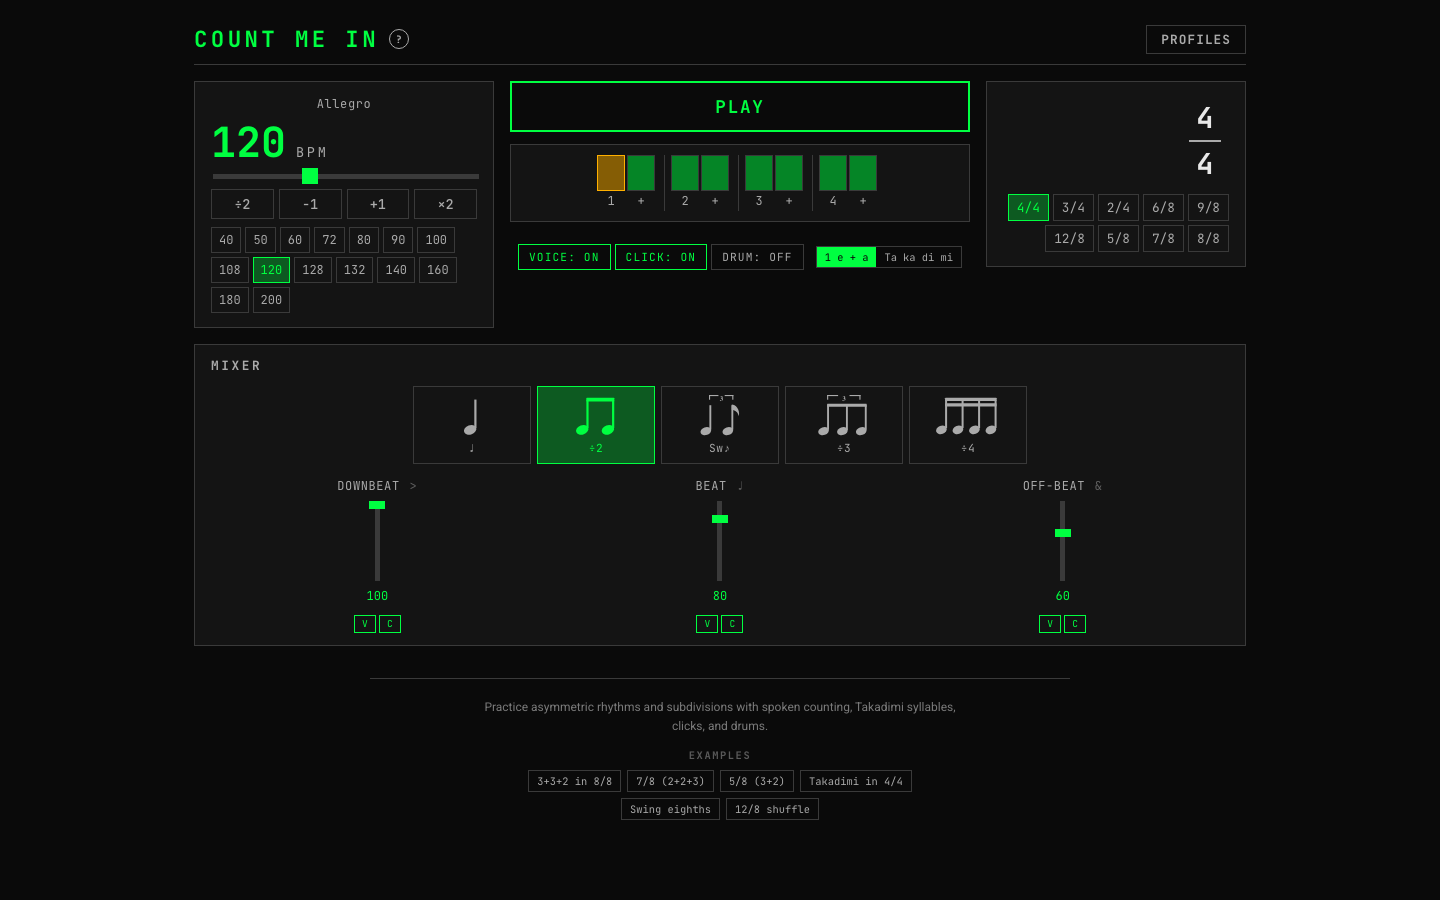
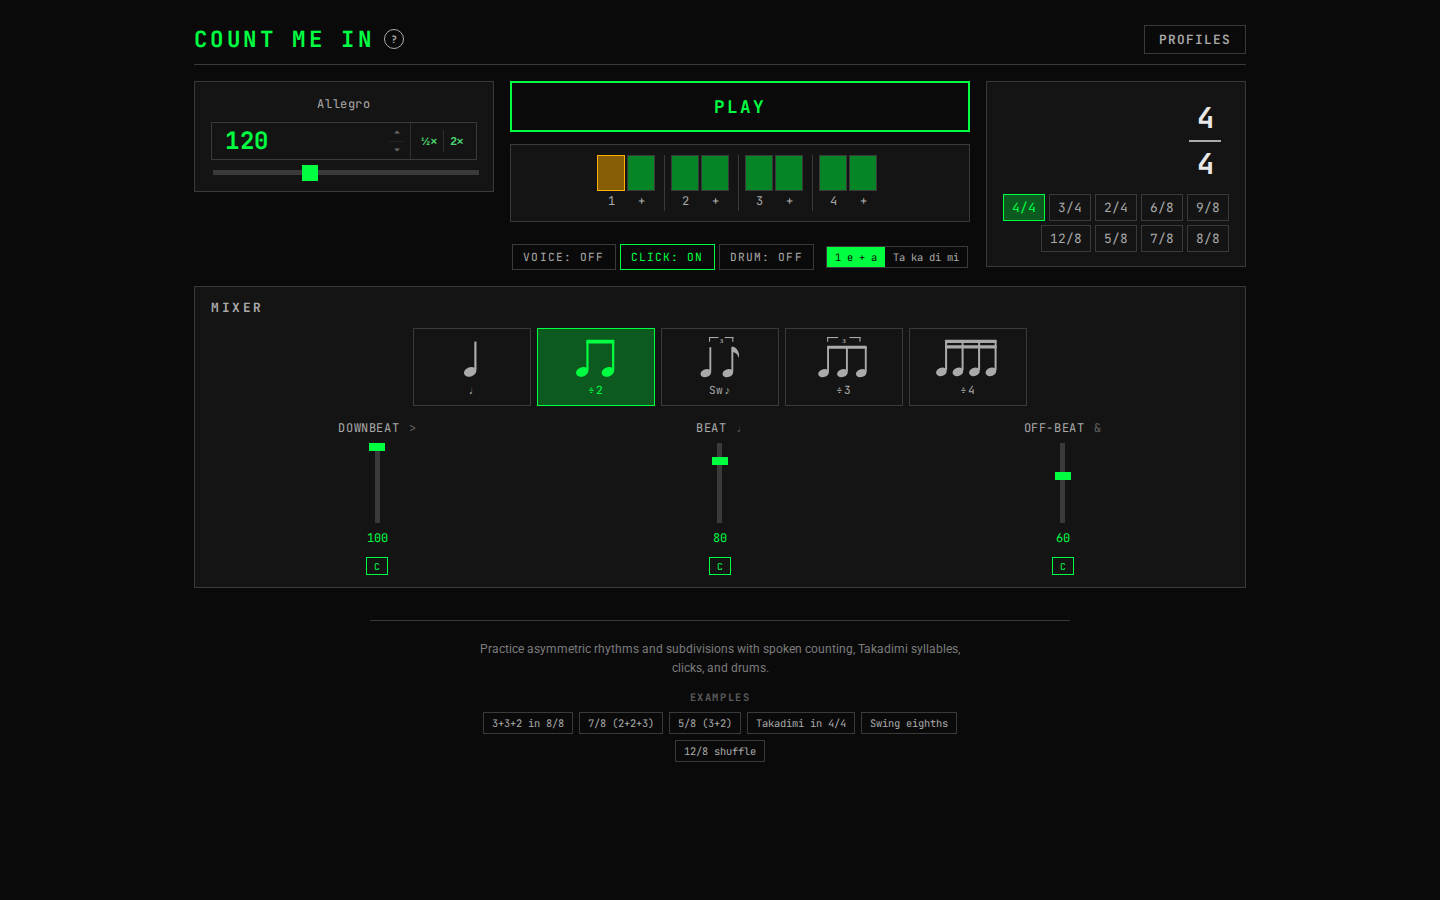
Count: adopt shared BpmInput for tempo control (#51)
* Count: adopt shared BpmInput for tempo control

Replaces the bespoke BPM display/edit field, repeat-press steppers, rate
buttons, and preset chip row with the shared BpmInput (pulse-themed via
its CSS tokens). Keeps the tempo-marking caption and always-visible
slider — core to Count's live tempo-sweep journey. Mixer tick toggles
get the 24px coarse-pointer floor.

* Update Count visual baselines for shared BpmInput adoption

count-desktop.png / count-mobile.png: intentional change from PR 51 — the
bespoke BPM display/± buttons are replaced by the shared BpmInput stepper
themed to the pulse terminal aesthetic (square shell, green accent, ½×/2×
presets). Imported from Linux CI actuals (run 29695910055); reviewed —
layout, slider, and mixer are unchanged otherwise.

---------

diff --git a/src/count/styles/pulse.css b/src/count/styles/pulse.css
@@ -171,53 +171,39 @@ body {
   gap: 8px;
 }
 
-.pulse-bpm-top {
-  display: flex;
-  align-items: baseline;
-  gap: 10px;
+/* Shared BpmInput themed to the pulse terminal aesthetic via its CSS tokens. */
+.count-bpm-input .shared-bpm-shell {
+  --bpm-bg: var(--pulse-surface);
+  --bpm-border: var(--pulse-border);
+  --bpm-text: var(--pulse-accent);
+  --bpm-muted: var(--pulse-text-dim);
+  --bpm-focus: var(--pulse-accent);
+  /* The shared inset ring token resolves against the light theme at :root, so
+     re-compose it here with the pulse accent. */
+  --bpm-focus-ring: inset 0 0 0 2px
+    color-mix(in srgb, var(--pulse-accent) 55%, transparent);
+  --bpm-hover: var(--pulse-accent-dim);
+  --bpm-shell-radius: 0;
+  --music-timing-value-font-size: 1.5rem;
+  font-family: var(--pulse-mono);
 }
 
-.pulse-bpm-display {
+.count-bpm-dropdown {
+  --labs-popover-bg: var(--pulse-surface);
+  --labs-popover-border: 1px solid var(--pulse-border);
+  --labs-popover-radius: 0;
+  --labs-popover-shadow: 0 8px 24px rgba(0, 0, 0, 0.6);
+  --bpm-dropdown-bg: var(--pulse-surface);
+  --bpm-dropdown-border: var(--pulse-border);
+  --bpm-text: var(--pulse-text);
+  --bpm-muted: var(--pulse-text-dim);
+  --bpm-focus: var(--pulse-accent);
+  --bpm-chip-radius: 0;
   font-family: var(--pulse-mono);
-  font-size: 2.6rem;
-  font-weight: 700;
-  color: var(--pulse-accent);
-  line-height: 1;
-  background: none;
-  border: none;
-  cursor: text;
-  padding: 0;
 }
 
-.pulse-bpm-input {
-  font-family: var(--pulse-mono);
-  font-size: 2.6rem;
-  font-weight: 700;
-  color: var(--pulse-accent);
-  background: var(--pulse-bg);
-  border: 1px solid var(--pulse-accent);
-  width: 100px;
-  padding: 0 6px;
-  line-height: 1;
-}
-.pulse-bpm-input:focus-visible {
-  outline: 2px solid var(--pulse-accent);
-  outline-offset: 2px;
-}
-.pulse-bpm-input::-webkit-inner-spin-button,
-.pulse-bpm-input::-webkit-outer-spin-button {
-  -webkit-appearance: none;
-  margin: 0;
-}
-.pulse-bpm-input {
-  -moz-appearance: textfield;
-}
-
-.pulse-bpm-label {
-  font-family: var(--pulse-mono);
-  font-size: 0.85rem;
-  letter-spacing: 0.2em;
-  color: var(--pulse-text-dim);
+.count-bpm-dropdown .shared-bpm-slider-wrap {
+  border-radius: 0;
 }
 
 .pulse-tempo-marking {
@@ -257,53 +243,6 @@ body {
   background: var(--pulse-accent);
   border: none;
   cursor: pointer;
-}
-
-.pulse-bpm-actions {
-  display: flex;
-  gap: 5px;
-}
-
-.pulse-bpm-btn {
-  font-family: var(--pulse-mono);
-  font-size: 0.85rem;
-  font-weight: 500;
-  padding: 5px 12px;
-  border: 1px solid var(--pulse-border);
-  background: transparent;
-  color: var(--pulse-text-dim);
-  cursor: pointer;
-  flex: 1;
-  text-align: center;
-}
-.pulse-bpm-btn:hover {
-  border-color: var(--pulse-accent);
-  color: var(--pulse-accent);
-}
-
-.pulse-bpm-presets {
-  display: flex;
-  flex-wrap: wrap;
-  gap: 4px;
-}
-
-.pulse-bpm-preset {
-  font-family: var(--pulse-mono);
-  font-size: 0.75rem;
-  padding: 4px 7px;
-  border: 1px solid var(--pulse-border);
-  background: transparent;
-  color: var(--pulse-text-dim);
-  cursor: pointer;
-}
-.pulse-bpm-preset:hover {
-  border-color: var(--pulse-accent);
-  color: var(--pulse-accent);
-}
-.pulse-bpm-preset.is-active {
-  border-color: var(--pulse-accent);
-  background: var(--pulse-accent-dim);
-  color: var(--pulse-accent);
 }
 
 /* ---- Time Signature ---- */
@@ -1429,9 +1368,6 @@ body {
   .pulse-bpm {
     gap: 6px;
   }
-  .pulse-bpm-presets {
-    gap: 3px;
-  }
   .pulse-time-sig {
     flex-direction: row;
     flex-wrap: wrap;
@@ -1492,5 +1428,10 @@ body {
   .pulse-voice-mode-btn {
     min-height: 24px;
     padding: 3px 10px;
+  }
+
+  .pulse-channel-mute {
+    min-width: 24px;
+    min-height: 24px;
   }
 }

diff --git a/src/count/components/BpmControl.tsx b/src/count/components/BpmControl.tsx
@@ -1,5 +1,5 @@
-import { useState, useCallback, useRef, useEffect } from 'react';
-import { COMMON_BPMS } from '../../shared/music/musicInputConstants';
+import { useCallback } from 'react';
+import BpmInput from '../../shared/components/music/BpmInput';
 
 interface BpmControlProps {
   bpm: number;
@@ -8,36 +8,6 @@ interface BpmControlProps {
 
 const MIN_BPM = 20;
 const MAX_BPM = 300;
-
-const REPEAT_DELAY = 400;
-const REPEAT_INTERVAL = 80;
-
-function useRepeatPress(callback: () => void) {
-  const timerRef = useRef<ReturnType<typeof setTimeout> | null>(null);
-  const intervalRef = useRef<ReturnType<typeof setInterval> | null>(null);
-  const cbRef = useRef(callback);
-  cbRef.current = callback;
-
-  const stop = useCallback(() => {
-    if (timerRef.current) { clearTimeout(timerRef.current); timerRef.current = null; }
-    if (intervalRef.current) { clearInterval(intervalRef.current); intervalRef.current = null; }
-  }, []);
-
-  useEffect(() => stop, [stop]);
-
-  const start = useCallback(() => {
-    stop();
-    timerRef.current = setTimeout(() => {
-      intervalRef.current = setInterval(() => cbRef.current(), REPEAT_INTERVAL);
-    }, REPEAT_DELAY);
-  }, [stop]);
-
-  return {
-    onPointerDown: start,
-    onPointerUp: stop,
-    onPointerLeave: stop,
-  };
-}
 
 const TEMPO_MARKINGS: Array<{ min: number; max: number; italian: string; english: string }> = [
   { min: 0,   max: 40,  italian: 'Larghissimo', english: 'Very broad' },
@@ -58,16 +28,14 @@ function getTempoMarking(bpm: number): { italian: string; english: string } {
 }
 
 function clamp(v: number) {
-  return Math.max(MIN_BPM, Math.min(MAX_BPM, Math.round(v * 10) / 10));
+  return Math.max(MIN_BPM, Math.min(MAX_BPM, Math.round(v)));
 }
 
+/**
+ * Count's tempo panel — tempo-marking caption + shared BpmInput stepper, with an
+ * always-visible slider for live tempo sweeps while practicing.
+ */
 export function BpmControl({ bpm, onChange }: BpmControlProps) {
-  const [editing, setEditing] = useState(false);
-  const [editValue, setEditValue] = useState('');
-
-  const bpmRef = useRef(bpm);
-  bpmRef.current = bpm;
-
   const handleSlider = useCallback(
     (e: React.ChangeEvent<HTMLInputElement>) => {
       onChange(clamp(parseFloat(e.target.value)));
@@ -75,52 +43,20 @@ export function BpmControl({ bpm, onChange }: BpmControlProps) {
     [onChange],
   );
 
-  const decRepeat = useRepeatPress(useCallback(() => onChange(clamp(bpmRef.current - 1)), [onChange]));
-  const incRepeat = useRepeatPress(useCallback(() => onChange(clamp(bpmRef.current + 1)), [onChange]));
-
-  const startEdit = () => {
-    setEditValue(String(Math.round(bpm)));
-    setEditing(true);
-  };
-
-  const commitEdit = () => {
-    setEditing(false);
-    const parsed = parseFloat(editValue);
-    if (!isNaN(parsed)) onChange(clamp(parsed));
-  };
-
   return (
     <div className="pulse-bpm">
       <div className="pulse-tempo-marking" title={getTempoMarking(bpm).english}>
         {getTempoMarking(bpm).italian}
       </div>
-      <div className="pulse-bpm-top">
-        {editing ? (
-          <input
-            className="pulse-bpm-input"
-            type="number"
-            value={editValue}
-            onChange={(e) => setEditValue(e.target.value)}
-            onBlur={commitEdit}
-            onKeyDown={(e) => e.key === 'Enter' && commitEdit()}
-            min={MIN_BPM}
-            max={MAX_BPM}
-            // eslint-disable-next-line jsx-a11y/no-autofocus
-            autoFocus
-            aria-label="BPM value"
-          />
-        ) : (
-          <button
-            className="pulse-bpm-display"
-            onClick={startEdit}
-            title="Click to type a BPM"
-            type="button"
-          >
-            {bpm.toFixed(0)}
-          </button>
-        )}
-        <span className="pulse-bpm-label">BPM</span>
-      </div>
+
+      <BpmInput
+        value={bpm}
+        onChange={(next) => onChange(clamp(next))}
+        min={MIN_BPM}
+        max={MAX_BPM}
+        className="count-bpm-input"
+        dropdownClassName="count-bpm-dropdown"
+      />
 
       <input
         type="range"
@@ -132,26 +68,6 @@ export function BpmControl({ bpm, onChange }: BpmControlProps) {
         onChange={handleSlider}
         aria-label="BPM slider"
       />
-
-      <div className="pulse-bpm-actions">
-        <button className="pulse-bpm-btn" onClick={() => onChange(clamp(bpm / 2))} type="button" title="Halve BPM">÷2</button>
-        <button className="pulse-bpm-btn" onClick={() => onChange(clamp(bpm - 1))} {...decRepeat} type="button" title="Decrease by 1 (hold to repeat)">−1</button>
-        <button className="pulse-bpm-btn" onClick={() => onChange(clamp(bpm + 1))} {...incRepeat} type="button" title="Increase by 1 (hold to repeat)">+1</button>
-        <button className="pulse-bpm-btn" onClick={() => onChange(clamp(bpm * 2))} type="button" title="Double BPM">×2</button>
-      </div>
-
-      <div className="pulse-bpm-presets">
-        {COMMON_BPMS.map((v) => (
-          <button
-            key={v}
-            className={`pulse-bpm-preset ${bpm === v ? 'is-active' : ''}`}
-            onClick={() => onChange(v)}
-            type="button"
-          >
-            {v}
-          </button>
-        ))}
-      </div>
     </div>
   );
 }